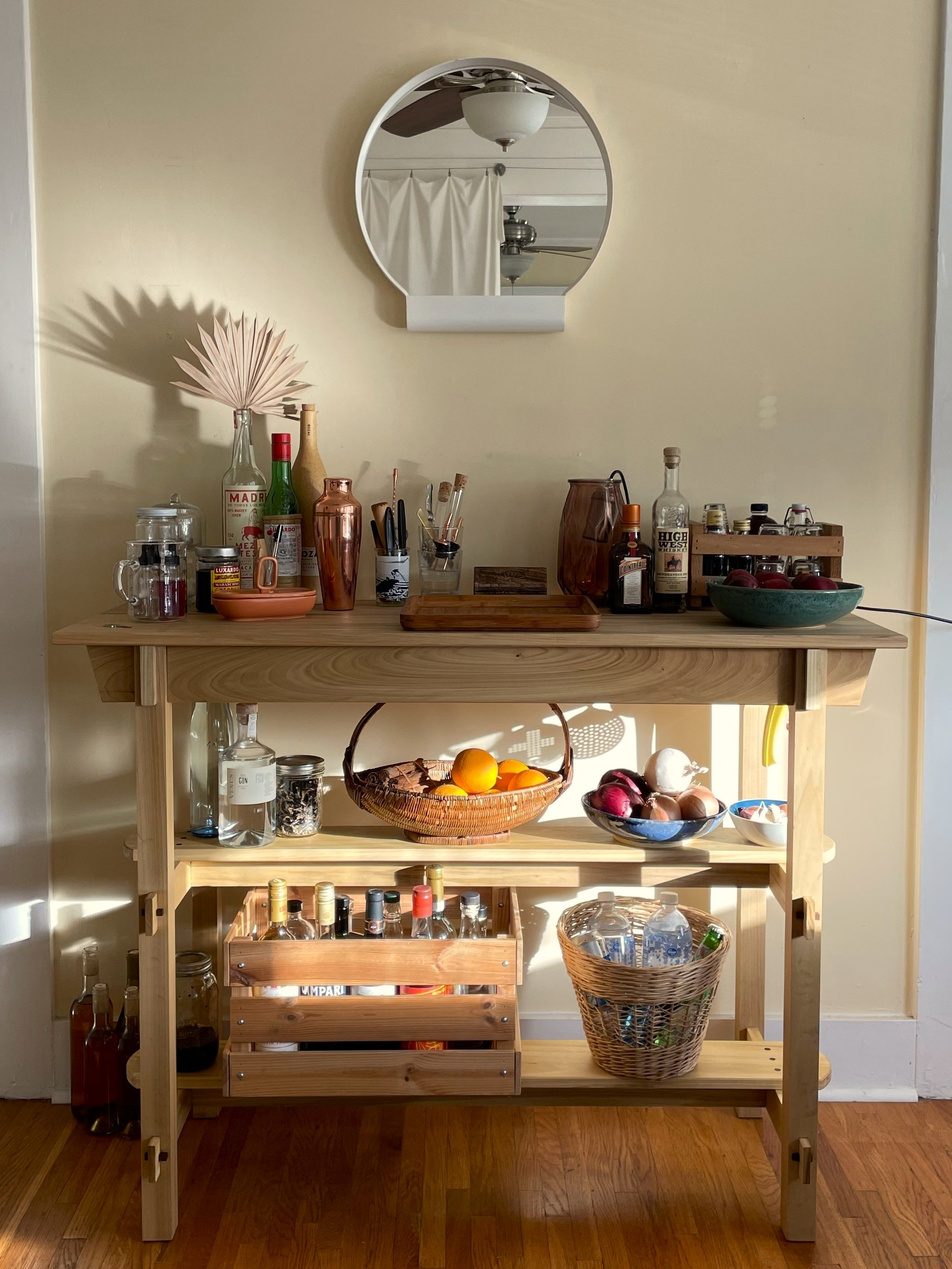
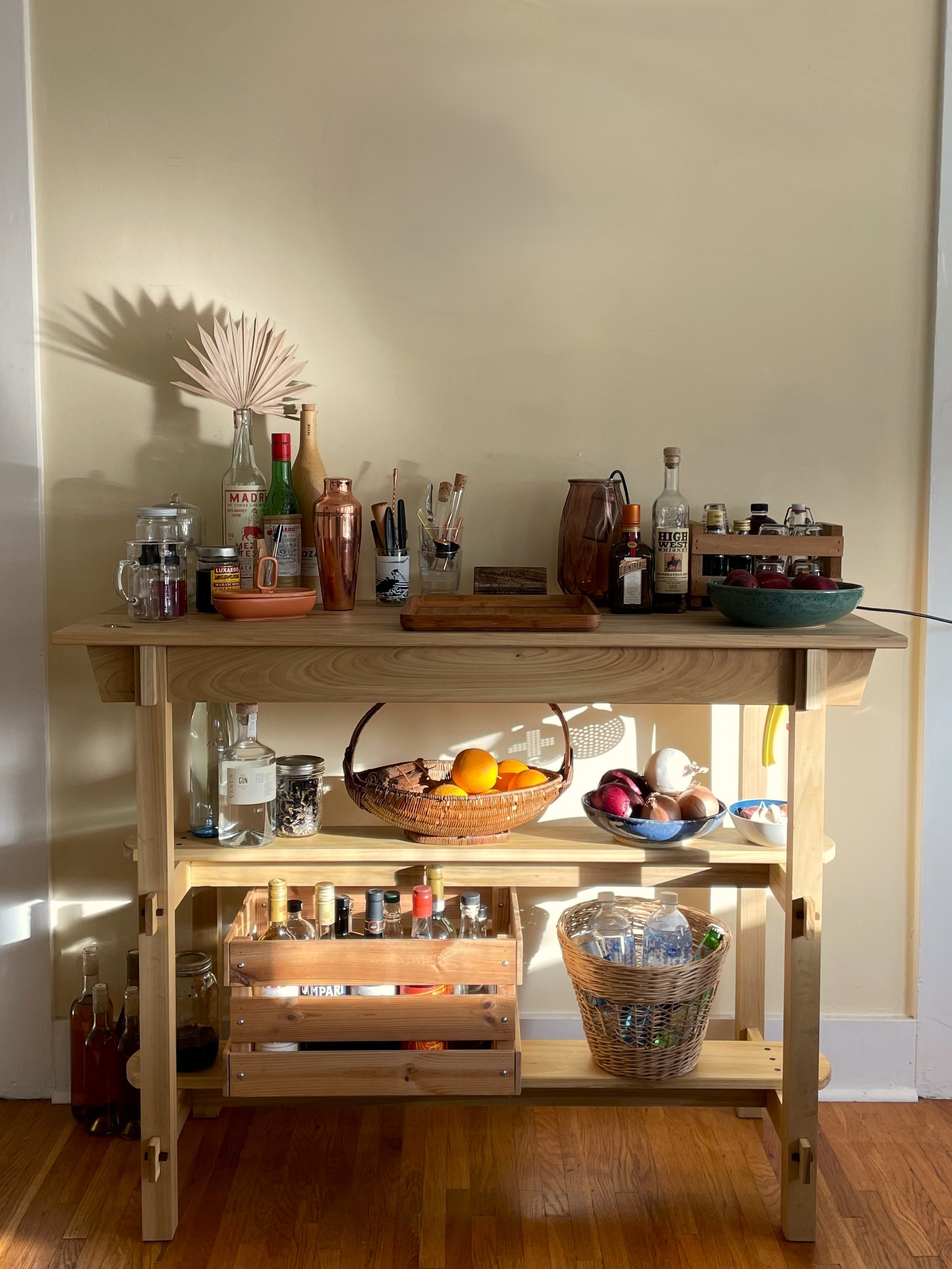
thumbnails

Changed region(s): [[0.3387, 0.0309, 0.6466, 0.2783]]

diff --git a/woodworking.html b/woodworking.html
@@ -60,7 +60,7 @@
       <section class="woodworking-gallery" aria-label="Woodworking gallery">
         <figure class="woodworking-gallery-item" id="cocktail-box">
           <button type="button" class="woodworking-gallery-trigger" aria-label="View Cocktail Box">
-            <img src="assets/engagementphotos-zack-abby-itlaphoto.com-105.jpg" alt="Cocktail Box" />
+            <img src="assets/thumbs/engagementphotos-zack-abby-itlaphoto.com-105.jpg" data-full-src="assets/engagementphotos-zack-abby-itlaphoto.com-105.jpg" alt="Cocktail Box" />
           </button>
           <figcaption class="woodworking-gallery-caption">
             <span class="woodworking-gallery-caption-title">Cocktail Box</span>
@@ -74,7 +74,7 @@
         </figure>
         <figure class="woodworking-gallery-item" id="trophy-box">
           <button type="button" class="woodworking-gallery-trigger" aria-label="View Trophy Case">
-            <img src="assets/IMG_2208.JPG" alt="Trophy Case" />
+            <img src="assets/thumbs/IMG_2208.jpg" data-full-src="assets/IMG_2208.JPG" alt="Trophy Case" />
           </button>
           <figcaption class="woodworking-gallery-caption">
             <span class="woodworking-gallery-caption-title">Trophy Case</span>
@@ -91,7 +91,7 @@
         </figure>
         <figure class="woodworking-gallery-item" id="wooden-purse">
           <button type="button" class="woodworking-gallery-trigger" aria-label="View Wooden Purse">
-            <img src="assets/purse/haison-woodpurse-itlaphoto.com-9462.jpg" alt="Wooden Purse" />
+            <img src="assets/thumbs/purse/haison-woodpurse-itlaphoto.com-9462.jpg" data-full-src="assets/purse/haison-woodpurse-itlaphoto.com-9462.jpg" alt="Wooden Purse" />
           </button>
           <figcaption class="woodworking-gallery-caption">
             <span class="woodworking-gallery-caption-title">Wooden Purse</span>
@@ -111,7 +111,7 @@
         </figure>
         <figure class="woodworking-gallery-item" id="ca-map">
           <button type="button" class="woodworking-gallery-trigger" aria-label="View California relief map frame">
-            <img src="assets/ca-picture-frame.jpg" alt="California relief map frame" />
+            <img src="assets/thumbs/ca-picture-frame.jpg" data-full-src="assets/ca-picture-frame.jpg" alt="California relief map frame" />
           </button>
           <figcaption class="woodworking-gallery-caption">
             <span class="woodworking-gallery-caption-title">California relief map frame</span>
@@ -122,7 +122,7 @@
         </figure>
         <figure class="woodworking-gallery-item" id="tool-chest">
           <button type="button" class="woodworking-gallery-trigger" aria-label="View Tool Chest">
-            <img class="woodworking-gallery-image-zoomed" src="assets/toolchest.jpg" alt="Tool Chest" />
+            <img class="woodworking-gallery-image-zoomed" src="assets/thumbs/toolchest.jpg" data-full-src="assets/toolchest.jpg" alt="Tool Chest" />
           </button>
           <figcaption class="woodworking-gallery-caption">
             <span class="woodworking-gallery-caption-title">Tool Chest</span>
@@ -143,7 +143,7 @@
         </figure>
         <figure class="woodworking-gallery-item" id="arques">
           <button type="button" class="woodworking-gallery-trigger" aria-label="View Arques School">
-            <img src="assets/2025-02-11+12.06.18.jpg" alt="Arques School" />
+            <img src="assets/thumbs/2025-02-11+12.06.18.jpg" data-full-src="assets/2025-02-11+12.06.18.jpg" alt="Arques School" />
           </button>
           <figcaption class="woodworking-gallery-caption">
             <span class="woodworking-gallery-caption-title">Arques School</span>
@@ -154,7 +154,7 @@
         </figure>
         <figure class="woodworking-gallery-item" id="portable-vanity">
           <button type="button" class="woodworking-gallery-trigger" aria-label="View Portable Vanity">
-            <img src="assets/IMG_2157.jpg" alt="Portable Vanity" />
+            <img src="assets/thumbs/IMG_2157.jpg" data-full-src="assets/IMG_2157.jpg" alt="Portable Vanity" />
           </button>
           <figcaption class="woodworking-gallery-caption">
             <span class="woodworking-gallery-caption-title">Portable Vanity</span>
@@ -165,7 +165,7 @@
         </figure>
         <figure class="woodworking-gallery-item" id="tool-tote">
           <button type="button" class="woodworking-gallery-trigger" aria-label="View Tool Tote">
-            <img src="assets/IMG_0004.jpg" alt="Tool Tote" />
+            <img src="assets/thumbs/IMG_0004.jpg" data-full-src="assets/IMG_0004.jpg" alt="Tool Tote" />
           </button>
           <figcaption class="woodworking-gallery-caption">
             <span class="woodworking-gallery-caption-title">Tool Tote</span>
@@ -175,7 +175,7 @@
         </figure>
         <figure class="woodworking-gallery-item" id="cocktail-bar">
           <button type="button" class="woodworking-gallery-trigger" aria-label="View Cocktail Bar">
-            <img src="assets/2023-01-20+08.18.28.jpg" alt="Cocktail Bar" />
+            <img src="assets/thumbs/2023-01-20+08.18.28.jpg" data-full-src="assets/2023-01-20+08.18.28.jpg" alt="Cocktail Bar" />
           </button>
           <figcaption class="woodworking-gallery-caption">
             <span class="woodworking-gallery-caption-title">Cocktail Bar</span>
@@ -185,7 +185,7 @@
         </figure>
         <figure class="woodworking-gallery-item" id="jewelry-box">
           <button type="button" class="woodworking-gallery-trigger" aria-label="View Jewelry Box">
-            <img src="assets/jewelry-box.jpg" alt="Jewelry Box" />
+            <img src="assets/thumbs/jewelry-box.jpg" data-full-src="assets/jewelry-box.jpg" alt="Jewelry Box" />
           </button>
           <figcaption class="woodworking-gallery-caption">
             <span class="woodworking-gallery-caption-title">Jewelry Box</span>
@@ -195,7 +195,7 @@
         </figure>
         <figure class="woodworking-gallery-item" id="walnut-box">
           <button type="button" class="woodworking-gallery-trigger" aria-label="View Walnut Box">
-            <img src="assets/walnut-box/walnut-box.jpg" alt="Walnut Box" />
+            <img src="assets/thumbs/walnut-box/walnut-box.jpg" data-full-src="assets/walnut-box/walnut-box.jpg" alt="Walnut Box" />
           </button>
           <figcaption class="woodworking-gallery-caption">
             <span class="woodworking-gallery-caption-title">Walnut Box</span>
@@ -210,7 +210,7 @@
         </figure>
         <figure class="woodworking-gallery-item" id="cabin">
           <button type="button" class="woodworking-gallery-trigger" aria-label="View Sunrise Cabin">
-            <img src="assets/2025-01-04+09.56.59.jpg" alt="Sunrise Cabin" />
+            <img src="assets/thumbs/2025-01-04+09.56.59.jpg" data-full-src="assets/2025-01-04+09.56.59.jpg" alt="Sunrise Cabin" />
           </button>
           <figcaption class="woodworking-gallery-caption">
             <span class="woodworking-gallery-caption-title">Sunrise Cabin</span>
@@ -221,7 +221,7 @@
         </figure>
         <figure class="woodworking-gallery-item" id="shaker-boxes">
           <button type="button" class="woodworking-gallery-trigger" aria-label="View Shaker Boxes">
-            <img src="assets/shakerbox.jpg" alt="Shaker Boxes" />
+            <img src="assets/thumbs/shakerbox.jpg" data-full-src="assets/shakerbox.jpg" alt="Shaker Boxes" />
           </button>
           <figcaption class="woodworking-gallery-caption">
             <span class="woodworking-gallery-caption-title">Shaker Boxes</span>
@@ -231,7 +231,7 @@
         </figure>
         <figure class="woodworking-gallery-item" id="coffee-table">
           <button type="button" class="woodworking-gallery-trigger" aria-label="View Coffee Table">
-            <img src="assets/coffee-table-bench/2026-06-27%2019.04.59.jpg" alt="Coffee Table" />
+            <img src="assets/thumbs/coffee-table-bench/2026-06-27%2019.04.59.jpg" data-full-src="assets/coffee-table-bench/2026-06-27%2019.04.59.jpg" alt="Coffee Table" />
           </button>
           <figcaption class="woodworking-gallery-caption">
             <span class="woodworking-gallery-caption-title">Coffee Table</span>
@@ -245,7 +245,7 @@
         </figure>
         <figure class="woodworking-gallery-item" id="dory">
           <button type="button" class="woodworking-gallery-trigger" aria-label="View Swampscott Dory">
-            <img src="assets/dory.jpg" alt="Swampscott Dory" />
+            <img src="assets/thumbs/dory.jpg" data-full-src="assets/dory.jpg" alt="Swampscott Dory" />
           </button>
           <figcaption class="woodworking-gallery-caption">
             <span class="woodworking-gallery-caption-title">Swampscott Dory</span>
@@ -255,7 +255,7 @@
         </figure>
         <figure class="woodworking-gallery-item" id="wall-shelf">
           <button type="button" class="woodworking-gallery-trigger" aria-label="View Wall Shelf">
-            <img src="assets/wall-shelf.jpeg" alt="Wall Shelf" />
+            <img src="assets/thumbs/wall-shelf.jpg" data-full-src="assets/wall-shelf.jpeg" alt="Wall Shelf" />
           </button>
           <figcaption class="woodworking-gallery-caption">
             <span class="woodworking-gallery-caption-title">Wall Shelf</span>
@@ -265,7 +265,7 @@
         </figure>
         <figure class="woodworking-gallery-item" id="sconce">
           <button type="button" class="woodworking-gallery-trigger" aria-label="View Sconce">
-            <img src="assets/sconce.jpg" alt="Sconce" />
+            <img src="assets/thumbs/sconce.jpg" data-full-src="assets/sconce.jpg" alt="Sconce" />
           </button>
           <figcaption class="woodworking-gallery-caption">
             <span class="woodworking-gallery-caption-title">Sconce</span>
@@ -275,7 +275,7 @@
         </figure>
         <figure class="woodworking-gallery-item" id="outdoor-bench">
           <button type="button" class="woodworking-gallery-trigger" aria-label="View Outdoor Bench">
-            <img src="assets/bench.jpeg" alt="Outdoor Bench" />
+            <img src="assets/thumbs/bench.jpg" data-full-src="assets/bench.jpeg" alt="Outdoor Bench" />
           </button>
           <figcaption class="woodworking-gallery-caption">
             <span class="woodworking-gallery-caption-title">Outdoor Bench</span>
@@ -312,6 +312,6 @@
         <img class="image-lightbox-image" alt="" />
       </div>
     </dialog>
-    <script src="woodworking-lightbox.js?v=20260628-20" defer></script>
+    <script src="woodworking-lightbox.js?v=20260817-1" defer></script>
   </body>
 </html>

diff --git a/woodworking-lightbox.js b/woodworking-lightbox.js
@@ -94,6 +94,10 @@
     });
   }
 
+  function getSlideSource(slide) {
+    return slide?.dataset?.fullSrc || slide?.getAttribute?.("data-full-src") || slide?.currentSrc || slide?.src || "";
+  }
+
   function getSlidesFromFigure(figure) {
     const thumb = figure.querySelector(".woodworking-gallery-trigger img");
     const template = figure.querySelector(".woodworking-gallery-images");
@@ -119,7 +123,7 @@
     if (!slide) return;
 
     setImageOrientation(lightboxImg, slide);
-    lightboxImg.src = slide.currentSrc || slide.src;
+    lightboxImg.src = getSlideSource(slide);
     lightboxImg.alt = slide.alt;
 
     if (!slide.naturalWidth) {
@@ -137,7 +141,7 @@
     const slide = slides[slideIndex];
     if (!slide || !zoomImg) return;
 
-    zoomImg.src = slide.currentSrc || slide.src;
+    zoomImg.src = getSlideSource(slide);
     zoomImg.alt = slide.alt;
   }
 
